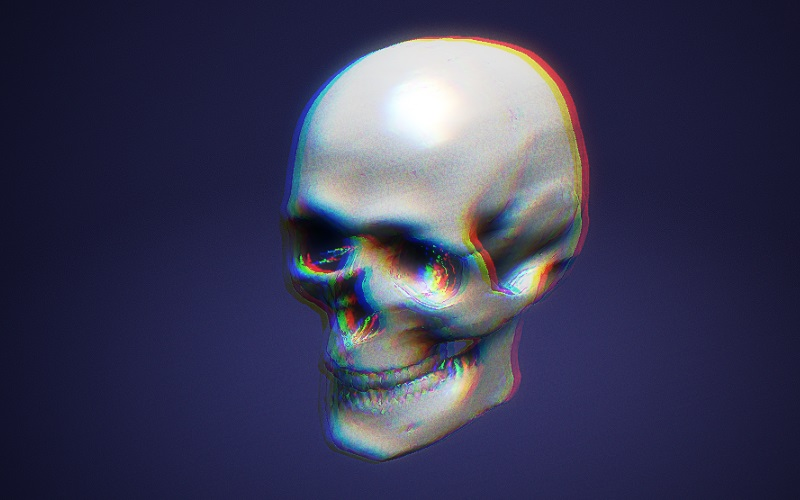
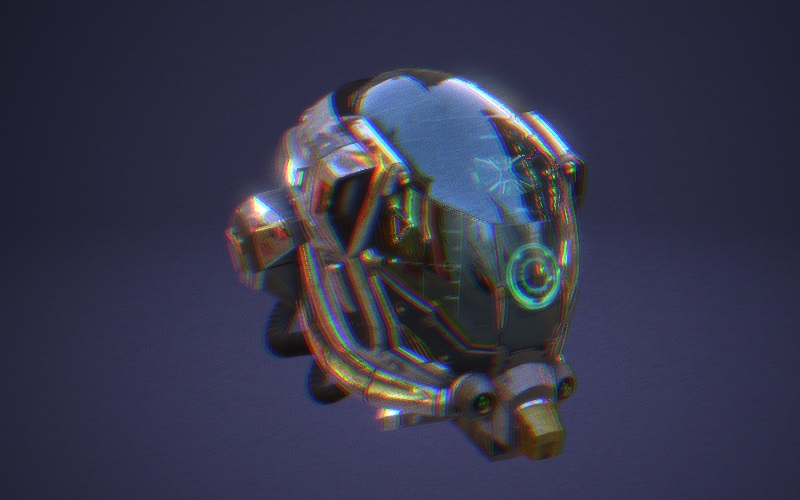
use helmet in demo

Changed region(s): [[0.2812, 0.06, 0.75, 0.93]]

diff --git a/index.html b/index.html
@@ -1724,7 +1724,7 @@
 						</a>
 					</article>
 					<article class="gallery-item" itemscope="" itemtype="http://schema.org/CreativeWork">
-						<a title="defaultrenderingpipeline" class="gallery-item-link" href="https://www.babylonjs-playground.com/frame.html#Y3C0HQ#144" target="blank" itemprop="url">
+						<a title="defaultrenderingpipeline" class="gallery-item-link" href="https://www.babylonjs-playground.com/frame.html#Y3C0HQ#146" target="blank" itemprop="url">
 							<img class="gallery-item-img" alt="GLTF demo" src="./Screenshots/defaultrenderingpipeline.jpg" itemprop="image">
 							<div class="gallery-item-infos">
 								<h3 class="gallery-item-title" itemprop="name">DEFAULT RENDERING PIPELINE</h3>
